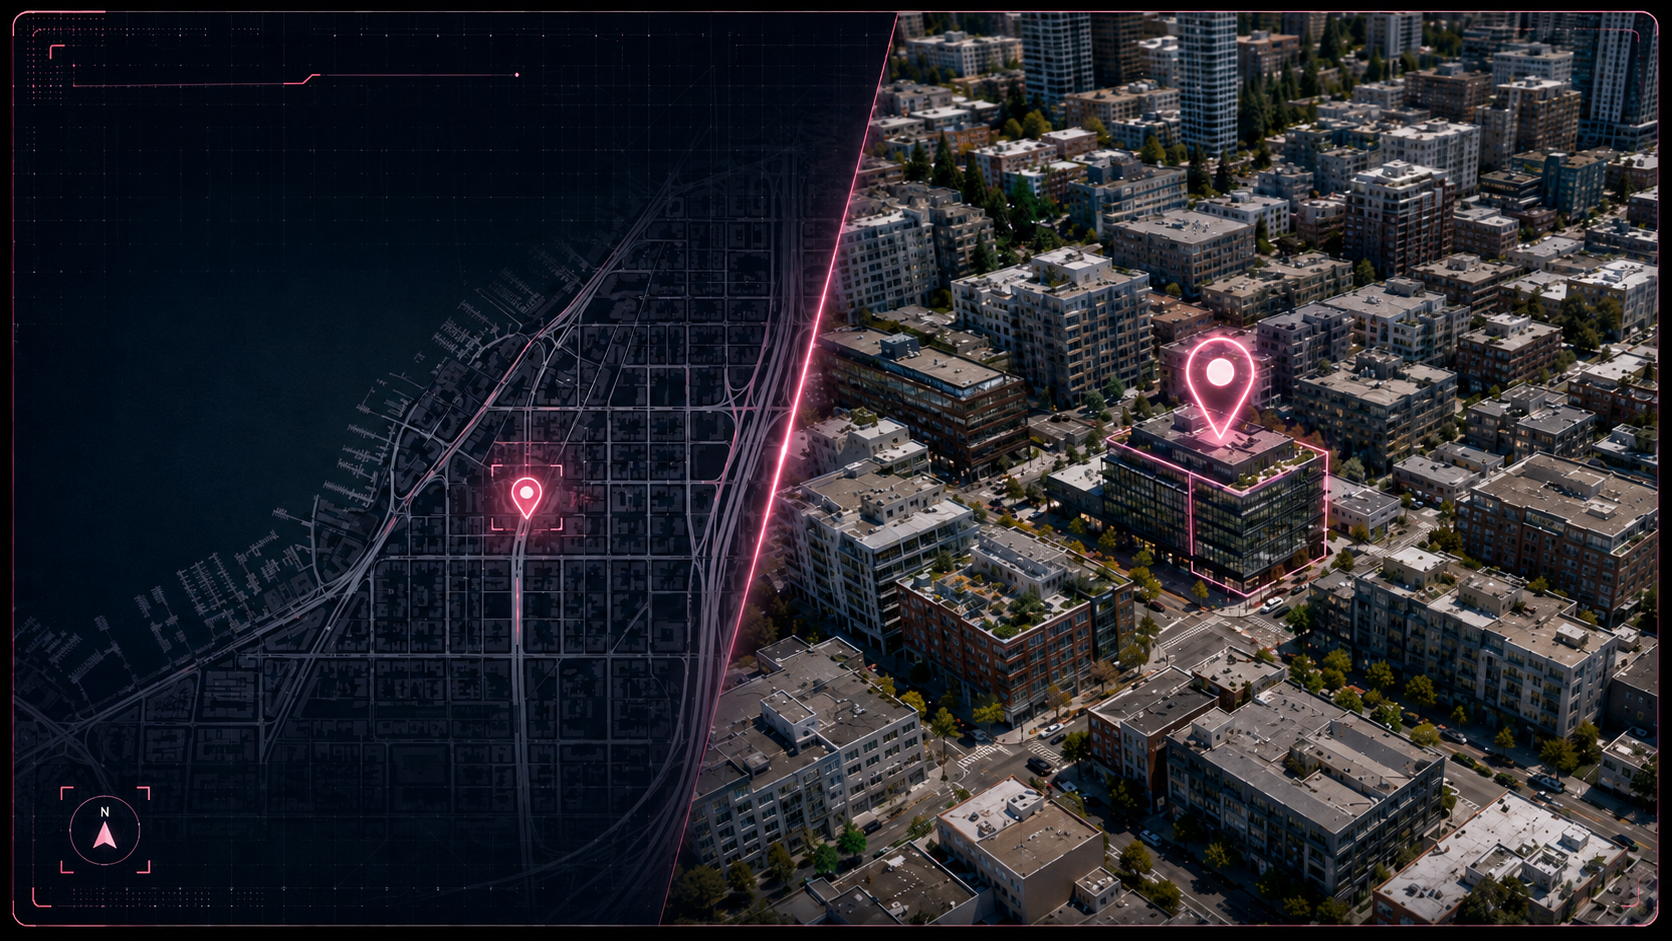
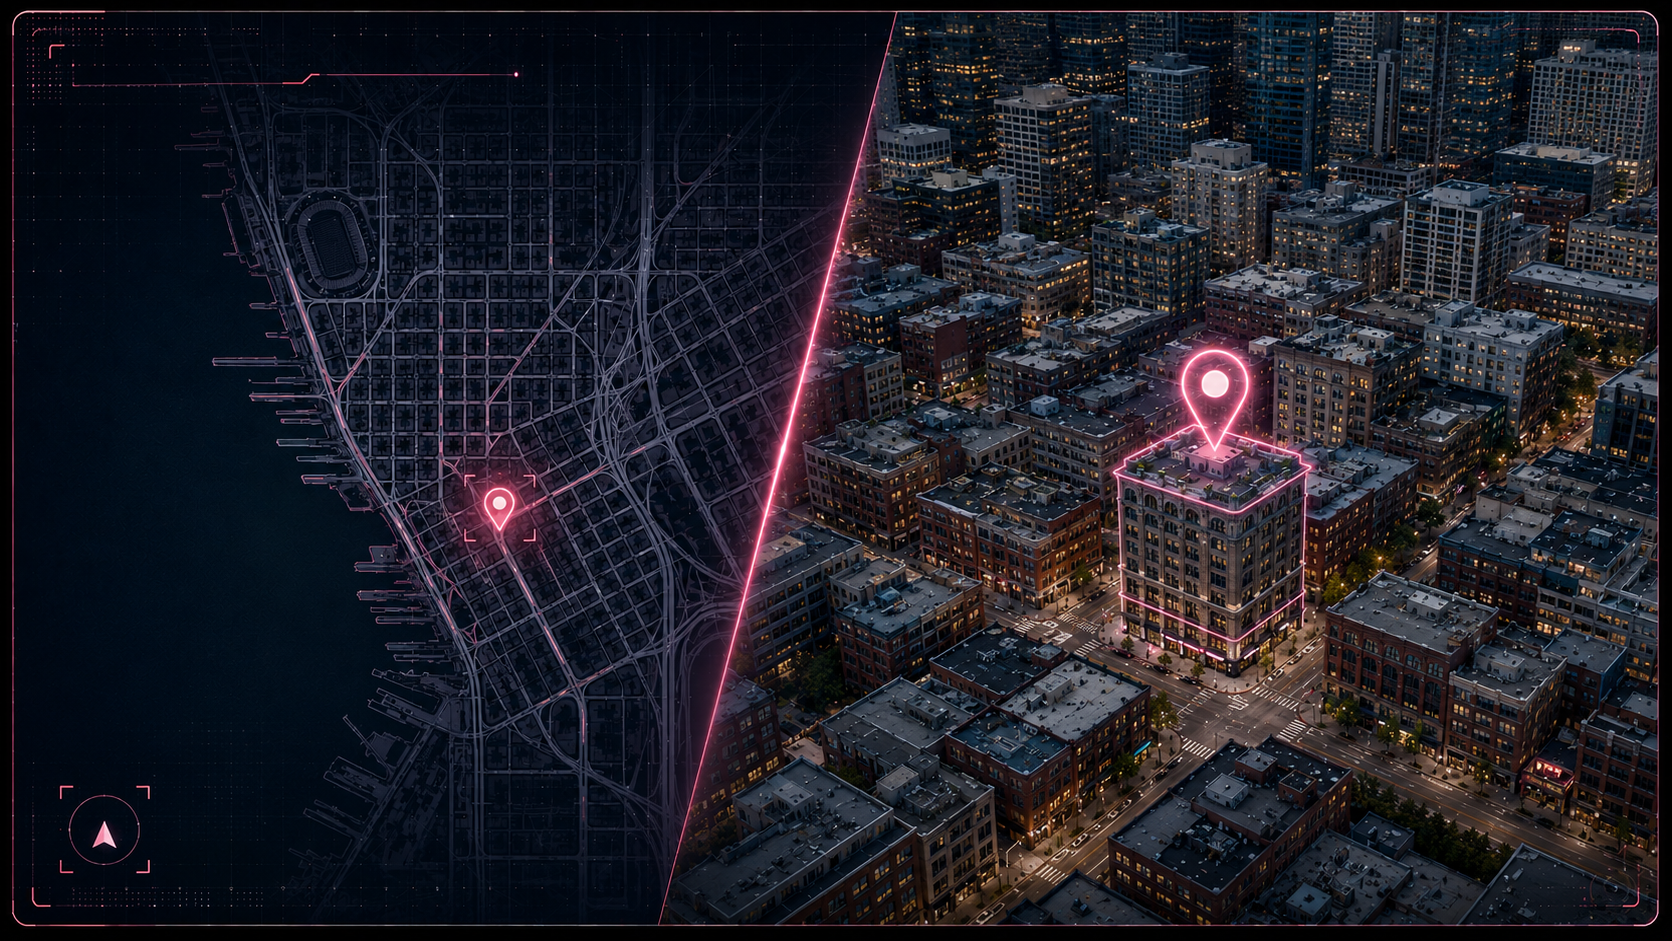
fix: update venue B to Impact Hub Seattle, fix card overflow and layout

diff --git a/slides/sitelens-slides-local.html b/slides/sitelens-slides-local.html
@@ -973,13 +973,13 @@ img, video, canvas, svg { max-width:100%; max-height:100%; }
 #s4 h2 { font-size:48px; line-height:1.15; max-width:1180px; }
 .demo-body { gap:46px; }
 .demo-bullets { flex:1.05; gap:16px; }
-.demo-side { width:680px; gap:10px; }
+.demo-side { width:680px; gap:10px; margin-top:-70px; }
 .demo-bullet { font-size:21px; padding:21px 24px; }
 .demo-bullet-icon { width:42px; height:42px; font-size:18px; }
-.venue-card { padding:16px 18px 18px; }
+.venue-card { padding:16px 18px 18px; min-height:400px; }
 .venue-img {
   width:100%;
-  height:185px;
+  height:165px;
   object-fit:cover;
   object-position:center;
   display:block;
@@ -1461,8 +1461,8 @@ img, video, canvas, svg { max-width:100%; max-height:100%; }
 <div class="venue-card vb">
 <img alt="Venue B map and satellite visual evidence" class="venue-img" src="assets/venue_b.png"/>
 <div class="vc-tag">Candidate B</div>
-<div class="vc-name">CIC Seattle</div>
-<div class="vc-addr">325 Eastlake Ave E · Capitol Hill</div>
+<div class="vc-name">Impact Hub Seattle</div>
+<div class="vc-addr">220 2nd Ave S · Pioneer Square</div>
 <div class="crits">
 <div class="crit" style="border-color:rgba(240,166,202,.2);color:rgba(240,166,202,.55);background:rgba(240,166,202,.04);">Mixed-Use</div>
 <div class="crit" style="border-color:rgba(240,166,202,.2);color:rgba(240,166,202,.55);background:rgba(240,166,202,.04);">Dense Urban</div>